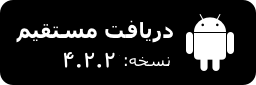
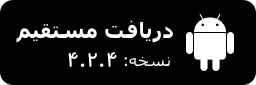
Release 4.2.4 - 2.2.4

Changed region(s): [[0.25, 0.6118, 0.4688, 0.8]]

diff --git a/index.htm b/index.htm
@@ -230,19 +230,19 @@
 
                     <div class="center-align download-btns">
 
-                        <a href="https://redirect.appmetrica.yandex.com/serve/172312427508083257?v=4.2.2"
-                            onclick="gtag_report_conversion('https://redirect.appmetrica.yandex.com/serve/172312427508083257?v=4.2.2')">
-                            <img src="assets/img/btn/DownloadDirectFA.png?v=4.2.2"
+                        <a href="https://redirect.appmetrica.yandex.com/serve/172312427508083257?v=4.2.4"
+                            onclick="gtag_report_conversion('https://redirect.appmetrica.yandex.com/serve/172312427508083257?v=4.2.4')">
+                            <img src="assets/img/btn/DownloadDirectFA.png?v=4.2.4"
                                 alt="دکمه دانلود مستقیم فایل اندروید">
                         </a>
-                        <a href="https://redirect.appmetrica.yandex.com/serve/963685243733231438?v=4.2.2"
-                            onclick="gtag_report_conversion('https://redirect.appmetrica.yandex.com/serve/963685243733231438?v=4.2.2')">
-                            <img src="assets/img/btn/CafeBazar-Badge.png?v=4.2.2"
+                        <a href="https://redirect.appmetrica.yandex.com/serve/963685243733231438?v=4.2.4"
+                            onclick="gtag_report_conversion('https://redirect.appmetrica.yandex.com/serve/963685243733231438?v=4.2.4')">
+                            <img src="assets/img/btn/CafeBazar-Badge.png?v=4.2.4"
                                 alt="دکمه دانلود بازی کلماتیک برای اندروید از کافه بازار">
                         </a>
-                        <a href="https://redirect.appmetrica.yandex.com/serve/1181118785915021816?v=4.2.2"
-                            onclick="gtag_report_conversion('https://redirect.appmetrica.yandex.com/serve/1181118785915021816?v=4.2.2')">
-                            <img src="assets/img/btn/Myket-Badge.png?v=4.2.2"
+                        <a href="https://redirect.appmetrica.yandex.com/serve/1181118785915021816?v=4.2.4"
+                            onclick="gtag_report_conversion('https://redirect.appmetrica.yandex.com/serve/1181118785915021816?v=4.2.4')">
+                            <img src="assets/img/btn/Myket-Badge.png?v=4.2.4"
                                 alt="دکمه دانلود بازی کلماتیک برای اندروید از مایکت">
                         </a>
                         <a href="https://redirect.appmetrica.yandex.com/serve/243823473116400451"
